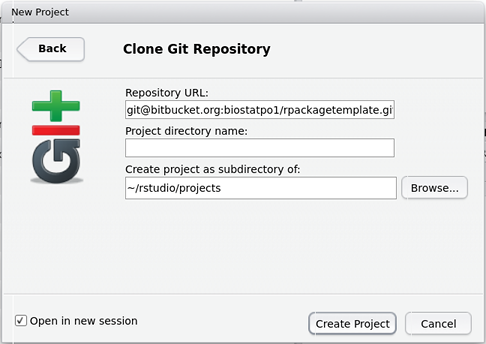
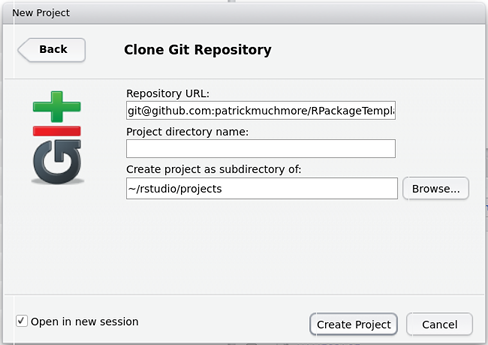
Updated README for GitHub.

diff --git a/README.md b/README.md
@@ -3,7 +3,7 @@
 This repository contains an R package template supporting the use of the Rcpp and/or RcppArmadillo packages. The package template has been configured as an RStudio project, and the following instructions assume you have [RStudio](https://www.rstudio.com/) installed. To make full use of RStudio, the [devtools](https://cran.r-project.org/web/packages/devtools/index.html) R package should also be installed. The package template includes both `R` and `C++` code, so a [suitable](https://cran.r-project.org/doc/manuals/r-release/R-admin.html) `C++` compiler must be available to build the package from source.
 
 1. [Configuring RStudio for Git via SSH](#configuring-rstudio-for-git-via-ssh)
-2. [Registering your SSH public key with Bitbucket](#registering-your-ssh-public-key-with-bitbucket)
+2. [Registering your SSH public key with GitHub](#registering-your-ssh-public-key-with-github)
 3. [Cloning the project repository with RStudio](#cloning-the-project-repository-with-rstudio)
 4. [Building and running the package template project with RStudio](#building-and-running-the-package-template-project-with-rstudio)
 
@@ -30,21 +30,25 @@ The RSA public key will be used to identify and authenticate you when connecting
 
 In case 3 above, it is assumed that anyone using something other than the default knows how to find the appropriate public key.
 
-### Registering your SSH public key with Bitbucket
+### Registering your SSH public key with GitHub
 
-To register your public key, log in to Bitbucket and click on your avatar, which is located in the top right corner and defaults to the image ![Avatar](./readme/BitbucketAvatar.png). From there, select __Bitbucket settings__, and then click on __SSH Keys__ in the left panel.
+To register your public key, log in to GitHub and click on your avatar, which is located in the top right of the page and defaults to the image ![Avatar](./readme/GitHubAvatar.png). From there, select __Settings__, and then click on __SSH and GPG keys__ in the left panel.
 
-Next, click on __Add key__, and paste the public key from before into the text box. It is recommended to label your SSH keys, particularly when using more than one. Press the __Add key__ button when finished.
+Next, click on __New SSH key__, and paste the public key from before into the text box. A title is optional but recommended, particularly with multiple keys. Press the __Add SSH key__ button when finished.
 
-![Bitbucket add key](./readme/BitbucketAddKey.png)
+![GitHub add key](./readme/GitHubAddKey.png)
 
 ### Cloning the project repository with RStudio
 
-With RStudio configured for Git, and your SSH key registered with the Git host, you are ready to clone the package template project repository. From the __File__ menu select __New Project...__, then click on __Version Control__ followed by __Git__. Enter *git@bitbucket.org:biostatpo1/RPackageTemplate.git* for the __Repository URL__, and leave the __Project directory name__ empty. When the repository is cloned, a new directory named *RPackageTemplate* will be created. 
+With RStudio configured for Git, and your SSH key registered with the Git host, you are ready to clone the package template project repository. From the __File__ menu select __New Project...__, then click on __Version Control__ followed by __Git__. Enter *git@github.com:patrickmuchmore/RPackageTemplate.git* for the __Repository URL__, and leave the __Project directory name__ at its default value. When the repository is cloned, a new directory named *RPackageTemplate* will be created. 
 
 ![Cloning a repository with Git and RStudio](./readme/CloneGitRepo.png)
 
-The field __Create project as subdirectory of__ indicates where the *RPackageTemplate* directory will be created. To specify an alternate location, click __Browse...__ and navigate to the desired file system path. If __Open in new session__ is checked, once the clone operation is complete RStudio will automatically open the project. After setting the appropriate option values, click the __Create Project__ button to clone the repository using Git.
+The field __Create project as subdirectory of__ indicates where the *RPackageTemplate* directory will be created. To specify an alternate location, click __Browse...__ and navigate to the desired file system path. If __Open in new session__ is checked, once the clone operation is complete RStudio will automatically open the project. After setting the appropriate option values, click the __Create Project__ button to clone the repository using Git. 
+
+The first time you connect to a remote host (such as github.com), you may receive an SSH security message asking you to confirm before continuing. You must type __yes__ to continue, simply hitting __OK__ will terminate the connection.
+
+![SSH Host Auth](./readme/HostAuth.png)
 
 ### Building and running the package template project with RStudio
 
